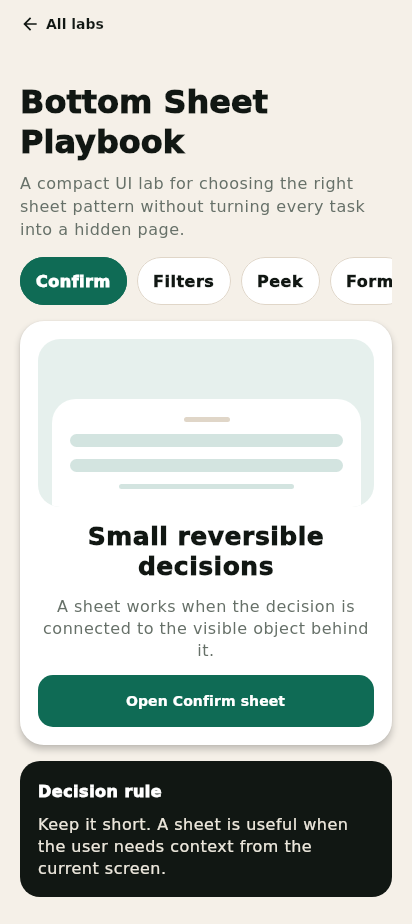
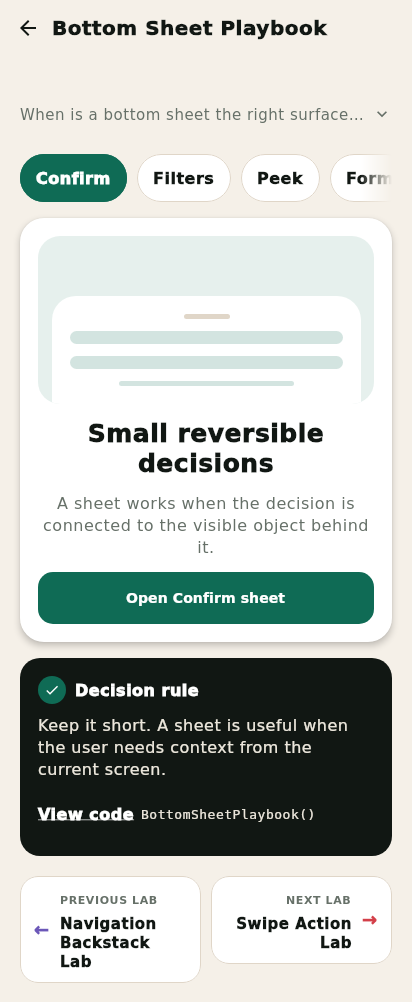
Refresh the README screenshots
The images still showed the series before the UI/UX pass (no vignettes, old
header, mock offline notes). All eleven are re-rendered from the current code
on the desktop Compose bench, 412 dp wide, light theme, cropped to content like
the previous ones; the catalog stops after lab 07.

Claude-Session: https://claude.ai/code/session_01QVrBbqGuKQHJ4K4kwEfkG8

diff --git a/README.md b/README.md
@@ -10,7 +10,7 @@ chaque lab compare plusieurs patterns côte à côte, avec des onglets pour pass
 d'accueil qui les liste.
 
 <p align="center">
-  <img src="images/catalog.png" alt="Écran d'accueil listant les dix labs" width="260" />
+  <img src="images/catalog.png" alt="Écran d'accueil : les labs numérotés et groupés par thème" width="260" />
 </p>
 
 ## Les labs
